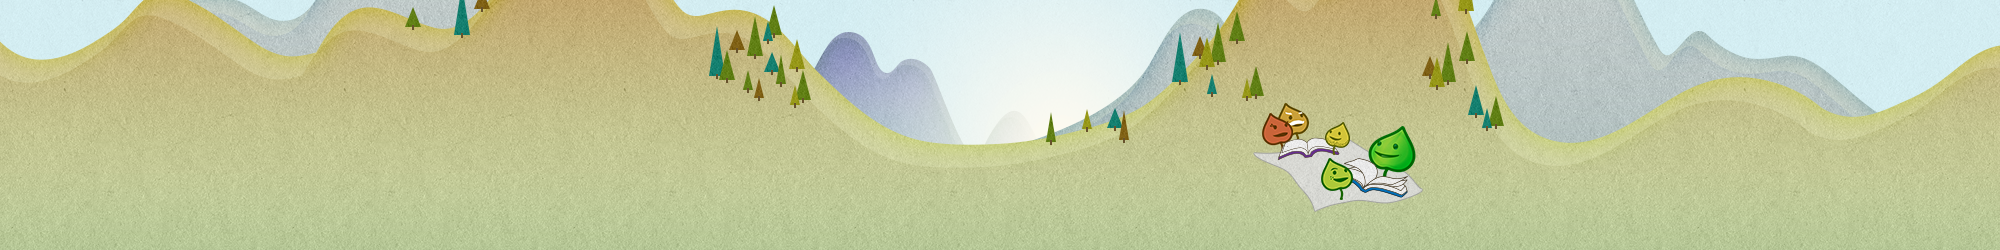
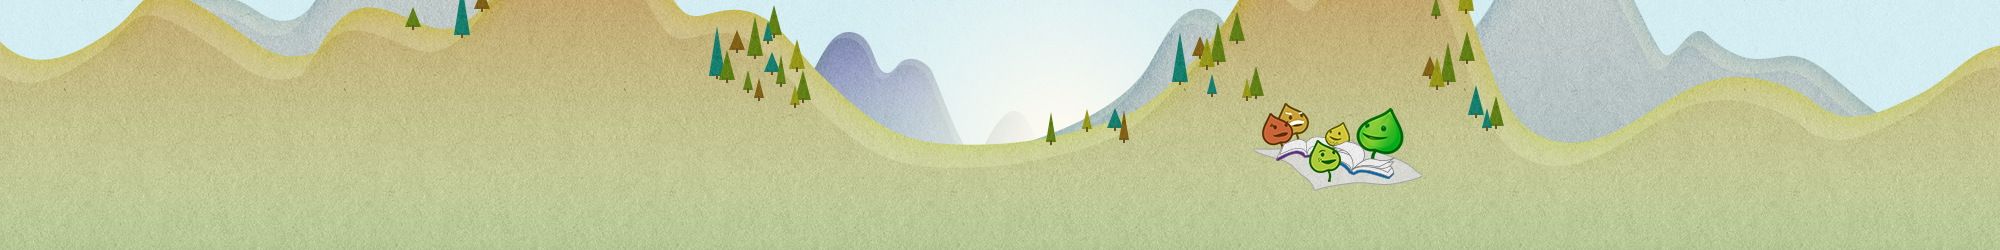
what i turned in

Changed region(s): [[0.62, 0.448, 0.713, 0.84]]

diff --git a/code.html b/code.html
@@ -335,7 +335,7 @@ body {
 	background-position: 50% 0%;
 	max-height: 250px;
 	min-width: 975px;
-	background-image:url('http://i.imgur.com/hycXz.png'); 
+	background-image:url('http://i.imgur.com/B39Ry.png'); 
 }
 
 #banner-title {
@@ -521,17 +521,15 @@ body {
 }
 
 .post-title, .content-700 .copy .post-title {
-	padding-left: 50px;
 	text-transform: uppercase;
 	color: #666666;
 	font-size: 18px;
 }
 
 .leafy {
-	margin-left: -5px;
-	margin-top: -60px;
+	margin-left: 625px;
+	margin-top: -65px;
 	position: absolute;
-	float: left;
 }
 
 /*footer copyright*/
@@ -744,7 +742,7 @@ body {
 			{block:Text}
 			<div class="post-panel">
 				<div class="copy">
-					{block:Title}<h2 class="post-title">{Title}</h2><img class="leafy" src="http://i.imgur.com/fG3c9.png" title="leafy" alt="leafy" />{/block:Title}
+					{block:Title}<h2 class="post-title">{Title}</h2><img class="leafy" src="http://i.imgur.com/eMQJh.png" title="leafy" alt="leafy" />{/block:Title}
 					{Body}
 				</div>
 				{/block:Text}
@@ -826,7 +824,7 @@ body {
 									<h2 class="post-title">
 										{Quote}
 									</h2>
-									<img class="leafy" src="http://i.imgur.com/fG3c9.png" title="leafy" alt="leafy" />
+									<img class="leafy" src="http://i.imgur.com/eMQJh.png" title="leafy" alt="leafy" />
 								</div>
 								<!--<blockquote class="quote-text">{Quote}</blockquote>-->
 
@@ -838,7 +836,7 @@ body {
 								<div class="post-panel">
 									<div class="copy">
 										<h2 class="post-title"><a href="{URL}" {Target}>{Name}<span class="icon"></span></a></h2>
-											<img class="leafy" src="http://i.imgur.com/fG3c9.png" title="leafy" alt="leafy" />
+											<img class="leafy" src="http://i.imgur.com/eMQJh.png" title="leafy" alt="leafy" />
 										{block:Description}{Description}{/block:Description}
 									</div>
 									{/block:Link}
@@ -847,7 +845,7 @@ body {
 									<div class="post-panel">
 										<div class="copy">
 											{block:Title}
-											<h2 class="post-title">{Title}</h2><img class="leafy" src="http://i.imgur.com/fG3c9.png" title="leafy" alt="leafy" />
+											<h2 class="post-title">{Title}</h2><img class="leafy" src="http://i.imgur.com/eMQJh.png" title="leafy" alt="leafy" />
 											{/block:Title}
 											<ul class="chat">
 												{block:Lines}
